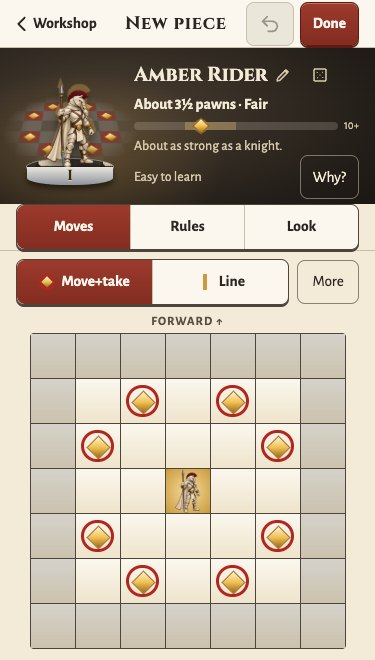
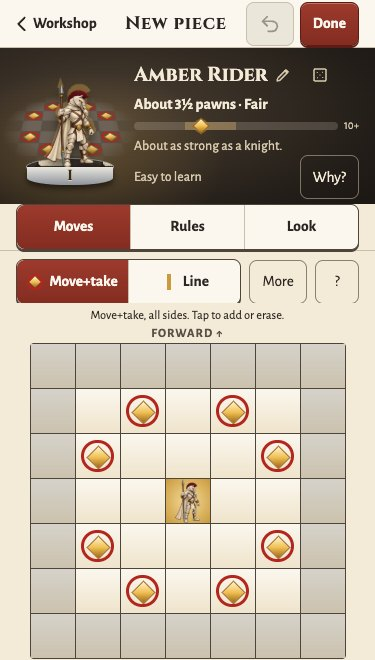
Workshop: browser checks and records for the review fixes
verify-workshop now checks each review fix in a browser: a refused save,
a full shelf, copy by hand, Ctrl+Z under a sheet, a stroke released off
the board, a drag from a dialog's padding, the Try it choice and
keyboard, a Safe rule, an unchanged Pawn, and the whole board at
568x320. The older checks follow the new Moves tab and Why? words. The
screenshots are new. WORKSHOP.md 12.2 lists the changes, and the review
says what was fixed in which commit.

Claude-Session: desktop 1c5adfa2-c747-4b20-ac72-5d45fc6131ab

diff --git a/docs/WORKSHOP.md b/docs/WORKSHOP.md
@@ -1801,3 +1801,22 @@ The owner tried build 1a on a phone. These changes fix what he found and what th
 23. **Motion preview:** the page holds everything (the art as data URIs in the markup, so the still models show where scripts do not run; `motion-a.js` inline; the phone video by a path beside it). It plays every motion in turn on open (**Play all**), with a **Slow view** (×4, the preview only). Each one-shot stays within 600 ms but moves more: A1 480 ms, a lift 1.8 times the gait's; A2 360 ms + 38 ms a ring, from scale 0 through 1.6; A3 450 ms, the gem swells to 1.7; A4 560 ms, a 7 px shake; A5 560 ms. The third A5 card is now "next to your king" (the chain seal it showed is gone).
 24. **Fixed bugs:** after the name field closed with no change, the name and its pencil vanished (and a script error followed). While the name is typed, a phone keyboard no longer changes the layout under the finger.
 25. **Smaller layout fixes:** on tablet and desktop a sheet is as tall as its content (it filled 85% of the height); the zone map stays inside the model (it lay over the name); HOME's heading and empty line are centred with the doors; the phone-landscape tabs do not wrap ("Rules 1"); under 360 px wide Back shows its arrow only, so the bar title fits (in landscape too, Back keeps its word for screen readers).
+
+### 12.2 Changes after the independent review (2026-10-06)
+
+`docs/visual-design/workshop/REVIEW-2026-10-06.md` found 13 Major, 14 Minor and 2 Polish problems. Each one failed first (a test or a browser check against the old code) and passes now. Items 15, 20 and 21 above change as follows.
+
+26. **Saving tells the truth.** `saveDesign` returns `'saved'`, `'full'` or `'failed'`. Only `'saved'` sets "Saved on this device". A failed save shows an alert that stays (Try again, Copy link) until a save works. Make a copy, Keep a copy and Delete report success only when it happened.
+27. **A full shelf drops nothing.** At 50 designs the alert asks the player to delete one ("Choose one to delete" opens a list); the open draft stays and saves after that. A saved entry that is damaged stays in storage, HOME says how many cannot be read, and the rest show.
+28. **Every allowed design shares.** The code limit is 4,000 characters; the largest allowed design is about 2,811 (a test pins it). Send link and Copy check the code first. Where the device cannot share or copy, a sheet shows the text, selected, to copy by hand.
+29. **Keys and strokes:** Ctrl/Cmd+Z does nothing while a sheet is open. A choice sheet commits on a tap, on Enter or on Apply; the arrow keys only move the choice; the sheet checks that its rule still exists. The move grid captures the pointer, so a stroke ends wherever the button is released. Item 15: the press and the release must both be outside the dialog's box, so a drag from its padding does not close it.
+30. **"Always" keeps every ability.** It is offered only where the like-piece squares merge with the painted ones (`likeAlways`); where a square would need both a take by moving and a shot, it is disabled and says why.
+31. **Try it:** each target square does one action; a square with two or more (take or push, for example) asks which one. A chain clears the square the piece left, so a rook can take across its start square. A Safe rule shows its own words, says whether it holds now, and says that Try it cannot test it (the other side never moves); the shield shows only while it holds. One tab stop and arrow keys on the board; focus goes to the landing square; each move is announced. The figure is drawn as White (ivory), as the board plays it.
+32. **The Moves tab** always shows the brush and Paint on in a mode line ("Move+take, all sides. Tap to add or erase."). On phones, More opens a Brushes sheet and "?" opens the help, so the board never moves. At 568×320 the board sits beside the brushes and every square shows (32 px). The tool row scrolls sideways, outside the painting surface.
+33. **Why?** (item 21) compares the design with itself less one part: `Without "takes again": about 4 pawns.`, or `…, it cannot move at all.` It then says once that the parts overlap and the differences do not add up. A rule that works only some of the time says "The estimate assumes it works … about N% of the time." Flags name the rule they mean and use no project history ("we have no reliable estimate for …"). The gauge's shaded band is named in Why?.
+34. **Ordinary pieces keep their words** on the stage, the shelf and SAVED (an unchanged Pawn is "The unit of worth", a Queen "Standard"); the Why? sheet title follows the verdict.
+35. **SAVED and Look:** SAVED says "Custom pieces cannot join games yet." Its picture is labelled "Base moves", a conditional move gets its own picture, and "Every square" lists each square in words. Look says body, glow and army change only how it looks. The letter follows the name until the player sets it (`ownLetter`, stored).
+36. **Mix two** shows on each tile what that piece gives and leaves out; the result note stays in the Rules tab until the player leaves. Toasts clear when the screen changes. Item 20: the badge key is one line that opens for the full text.
+37. **Desktop:** the stage shows the figure, name and short verdict; the full judge shows once, on the right; Why? moves focus there.
+38. **Diagrams:** movement lines have a dark edge.
+39. **Motion preview** (not in the shipped editor): no scrolling with reduced motion or Off; Play stops Play all; a body change runs the gait and the change together; fading floor marks keep their gradients; overload restores the seams' dash pattern.

diff --git a/docs/visual-design/workshop/REVIEW-2026-10-06.md b/docs/visual-design/workshop/REVIEW-2026-10-06.md
@@ -62,3 +62,38 @@ Verification: **28 Workshop tests passed** with a review-only configuration. Foc
 - **The revised chain flow is clearer.** Showing the next capture immediately, with Finish available, is better than an extra confirmation step.
 - **The code separates calculation from presentation.** Pure model, judge, and movement modules support focused tests. Recomputing the verdict when a link opens is also sound.
 - **Motion remains outside the shipped editor.** Keep that boundary until the preview behavior is corrected and approved.
+**5) Fixed / skipped (2026-10-06, branch `claude/workshop`)**
+
+Every finding was reproduced on the old code (`ca8255b`) first. None was skipped. `tools/verify-workshop.mjs` §8b and the unit tests pin the fixes; `docs/WORKSHOP.md` §12.2 gives the details.
+
+| Severity | Area | Status | Commit |
+|---|---|---|---|
+| Major | Save and Keep a copy | Fixed: save result returned; alert with Try again and Copy link; delete failure shown | `cfbf309` |
+| Major | Shelf | Fixed: a full shelf asks the player to delete one; the draft stays | `cfbf309` |
+| Major | Send link | Fixed: limit 4,000 (largest design about 2,811); max-size round-trip test | `cfbf309` |
+| Major | Rule choices and Why? | Fixed: Ctrl/Cmd+Z ignored under a sheet; the sheet checks its rule | `ee820f9` |
+| Major | Move grid | Fixed: pointer capture, lost capture, button check | `ee820f9` |
+| Major | Try it | Fixed: one action per target; a choice where a square has several | `9443ad0` |
+| Major | Try it: Takes again | Fixed: the chain clears the start square; rook test | `9443ad0` |
+| Major | Rules: Always | Fixed: merge keeps every ability; disabled with a reason where it cannot | `ee820f9` |
+| Major | Try it: keyboard | Fixed: roving focus, arrows, focus on the landing square, announcements | `9443ad0` |
+| Major | Moves: hidden controls | Fixed: the mode line always names brush and Paint on | `ac72ac5` |
+| Major | Phone and landscape Moves | Fixed: More and ? open sheets; full grid at 568×320; tools scroll outside the board | `ac72ac5` |
+| Major | Why? | Fixed: removal comparisons, one overlap note | `3ac6913` |
+| Major | Try it: Safe rules | Fixed: exact rule, holds or not, cannot be tested here | `9443ad0` |
+| Minor | Judge: ordinary presets | Fixed: one band and title for every view | `3ac6913` |
+| Minor | Judge: certainty and language | Fixed: "The estimate assumes…", rule named, no project history | `3ac6913` |
+| Minor | Saved: accessible description | Fixed: "Base moves" label, conditional pictures, exact square list | `2fbb143` |
+| Minor | Look and board previews | Fixed: Try it draws White; Auto body refreshes; Look says Black mirrors | `2fbb143` |
+| Minor | Look: letter | Fixed: stored `ownLetter` | `2fbb143` |
+| Minor | Shelf: damaged data | Fixed: each entry validated; bad ones kept and counted | `cfbf309` |
+| Minor | Share errors | Fixed: copy-by-hand sheet; Send link falls back to copy | `cfbf309` |
+| Minor | First visit and Look | Fixed: SAVED and Look notes; HOME unchanged | `2fbb143` |
+| Minor | Mix two | Fixed: per-tile contribution; the result note stays | `2fbb143` |
+| Minor | Rule and When sheets | Fixed: short key that opens; tap, Enter or Apply commits | `ee820f9`, `2fbb143` |
+| Minor | Desktop editor | Fixed: full judge once on the right; Why? focuses it | `2fbb143` |
+| Minor | Motion preview | Fixed: no scroll when reduced or Off; Play stops Play all | `e40b3be` |
+| Minor | Proposed motion code | Fixed: effects combine; gradients copied; seams restored | `e40b3be` |
+| Minor | Dialog dismissal | Fixed: press position checked against the dialog box | `ee820f9` |
+| Polish | Diagrams and gauge | Fixed: dark edge on lines; the band named in Why? | `2fbb143`, `3ac6913` |
+| Polish | Toasts across screens | Fixed: toasts clear on a screen change | `cfbf309` |
